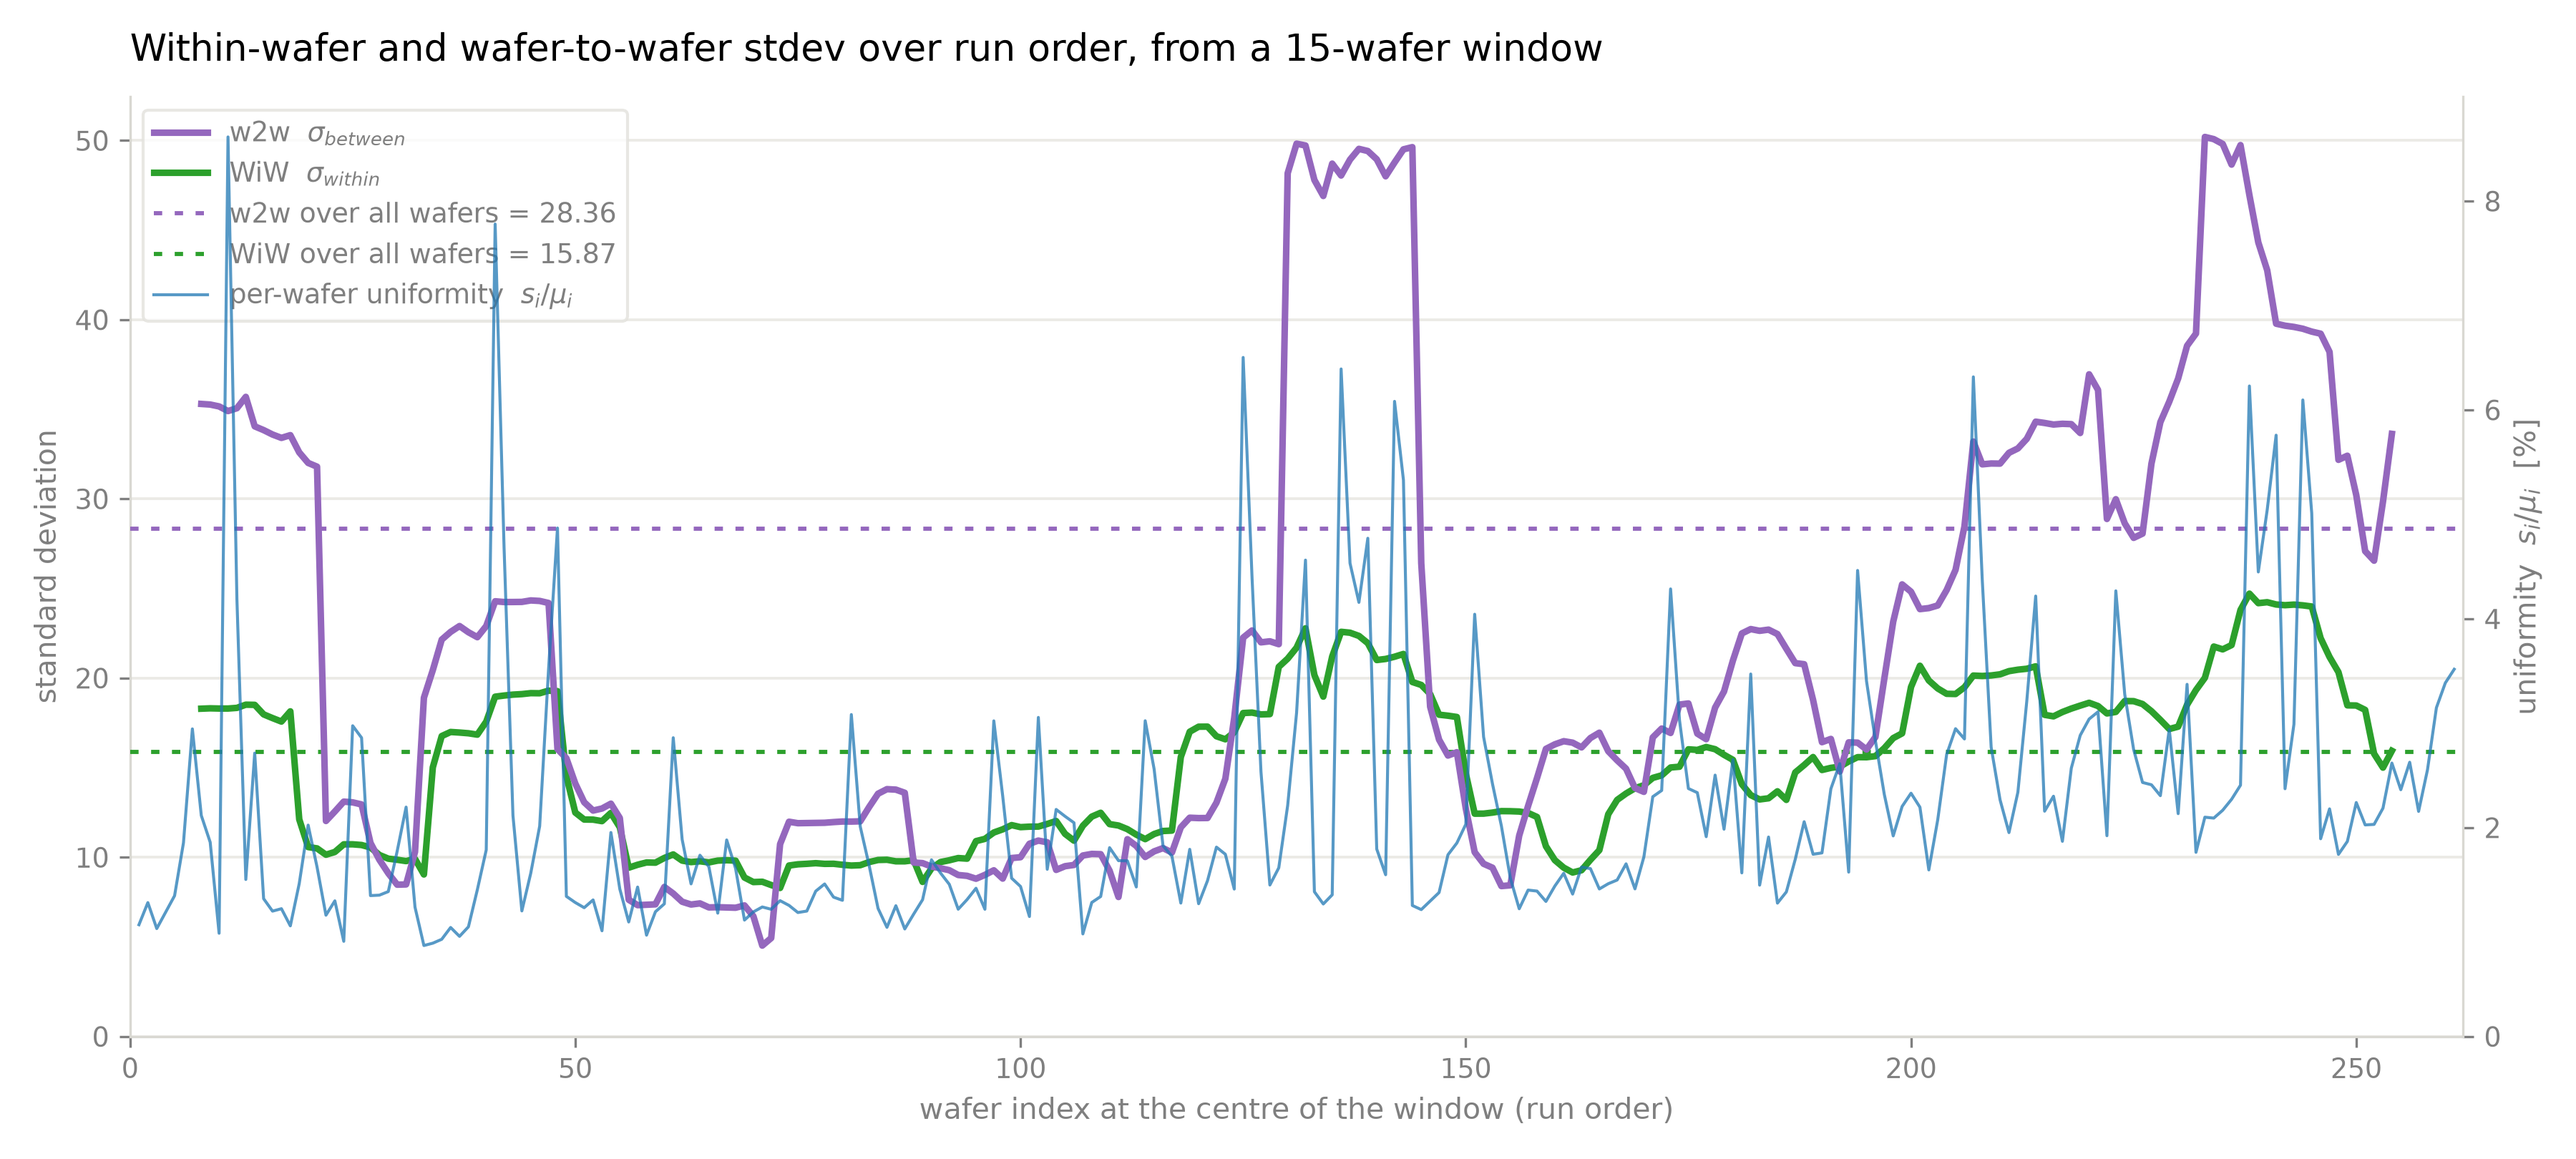
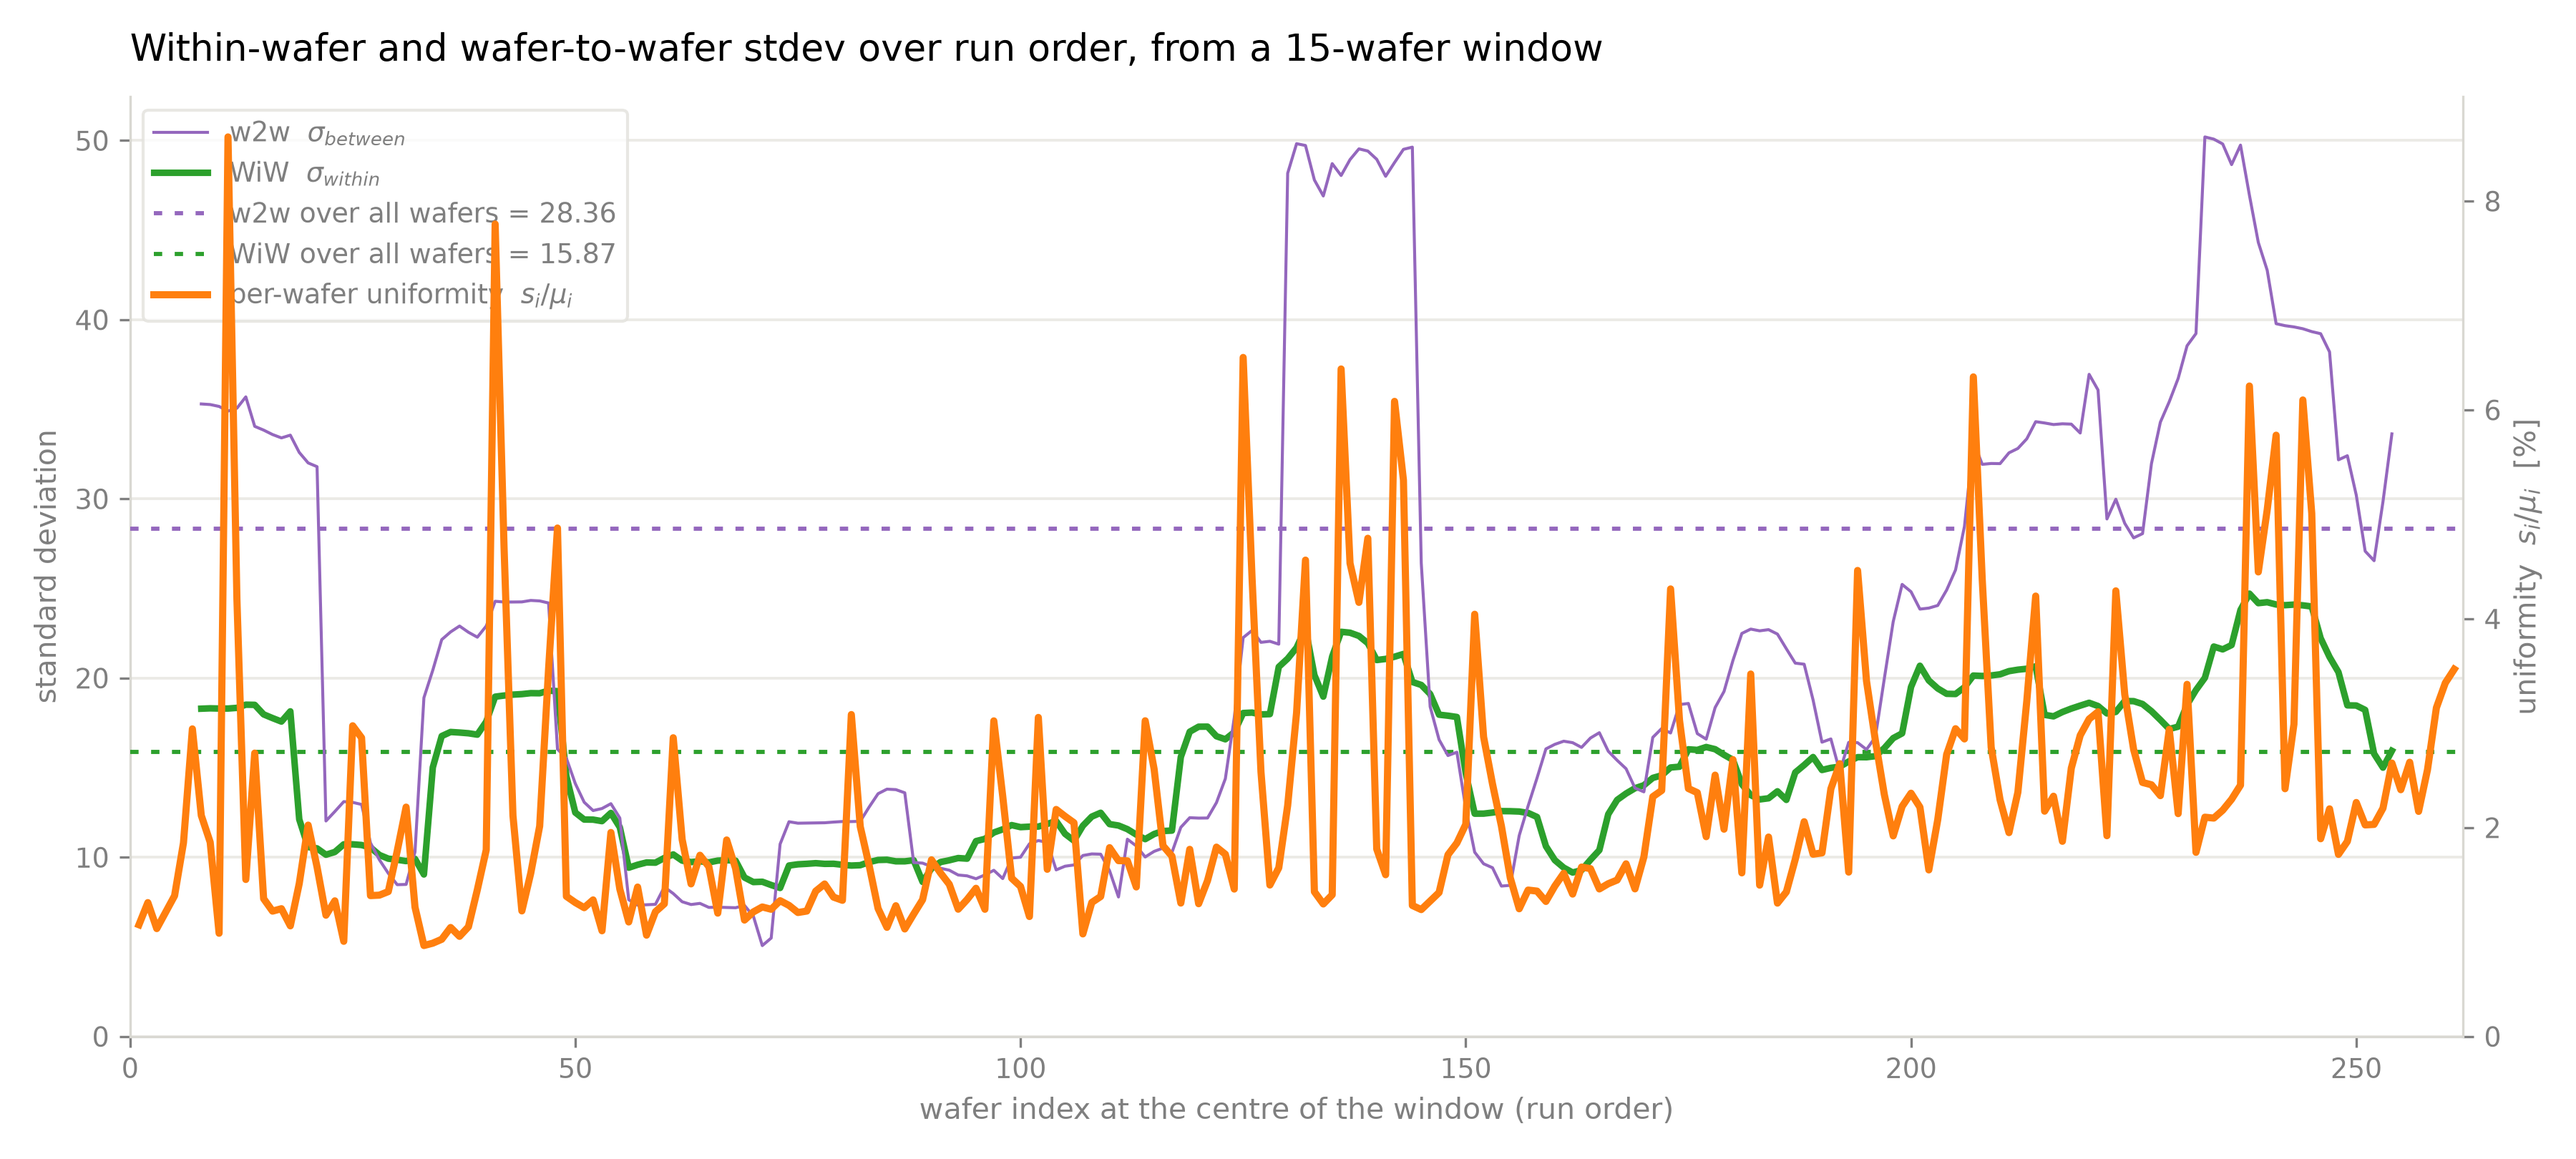
Give the uniformity curve the weight and the wafer-to-wafer curve a hairline
Claude-Session: https://claude.ai/code/session_01EmRuphkFeGWkDYDUkauFqt

diff --git a/EDA/Variability/WiW-W2W/wiw_w2w_anova.py b/EDA/Variability/WiW-W2W/wiw_w2w_anova.py
@@ -17,7 +17,7 @@ Changelog:
 """
 
 __author__ = 'yRocket'
-__version__ = "0.9.0.2026.9.3"
+__version__ = "0.9.1.2026.9.3"
 
 import argparse
 import pathlib
@@ -275,7 +275,7 @@ class WaferMeasurements:
         whole = self.components()
 
         figure, axes = plt.subplots(figsize=FIGSIZE)
-        axes.plot(rolling.index, rolling['sigma_between'], color=COLOR_RIGHT_TERM, lw=2.2, zorder=5,
+        axes.plot(rolling.index, rolling['sigma_between'], color=COLOR_RIGHT_TERM, lw=1.0, zorder=5,
                   label=r"w2w  $\sigma_{between}$")
         axes.plot(rolling.index, rolling['sigma_within'], color=COLOR_LEFT_TERM, lw=2.2, zorder=4,
                   label=r"WiW  $\sigma_{within}$")
@@ -289,7 +289,7 @@ class WaferMeasurements:
         # uniformity is each wafer's own spread over its own mean, so it carries the right axis of its own
         uniformity = self.wafer_uniformity()
         right = axes.twinx()
-        right.plot(self.order, uniformity.to_numpy(), color=COLOR_OBSERVED, lw=1.0, alpha=0.75, zorder=2,
+        right.plot(self.order, uniformity.to_numpy(), color=COLOR_TREND, lw=2.4, zorder=2,
                    label=r"per-wafer uniformity  $s_i / \mu_i$")
         right.set_ylabel(r"uniformity  $s_i / \mu_i$  [%]", fontsize=self._font_size() * 1.1, color=COLOR_INK)
         right.set_ylim(bottom=0)
@@ -297,7 +297,7 @@ class WaferMeasurements:
         for side in ('top', 'left', 'bottom'):
             right.spines[side].set_visible(False)
         right.spines['right'].set_color('#d9d8d2')
-        axes.plot([], [], color=COLOR_OBSERVED, lw=1.0, alpha=0.75, label=r"per-wafer uniformity  $s_i / \mu_i$")
+        axes.plot([], [], color=COLOR_TREND, lw=2.4, label=r"per-wafer uniformity  $s_i / \mu_i$")
         self._finish(axes=axes,
                      title=f"Within-wafer and wafer-to-wafer stdev over run order, from a {window}-wafer window",
                      xlabel="wafer index at the centre of the window (run order)",
